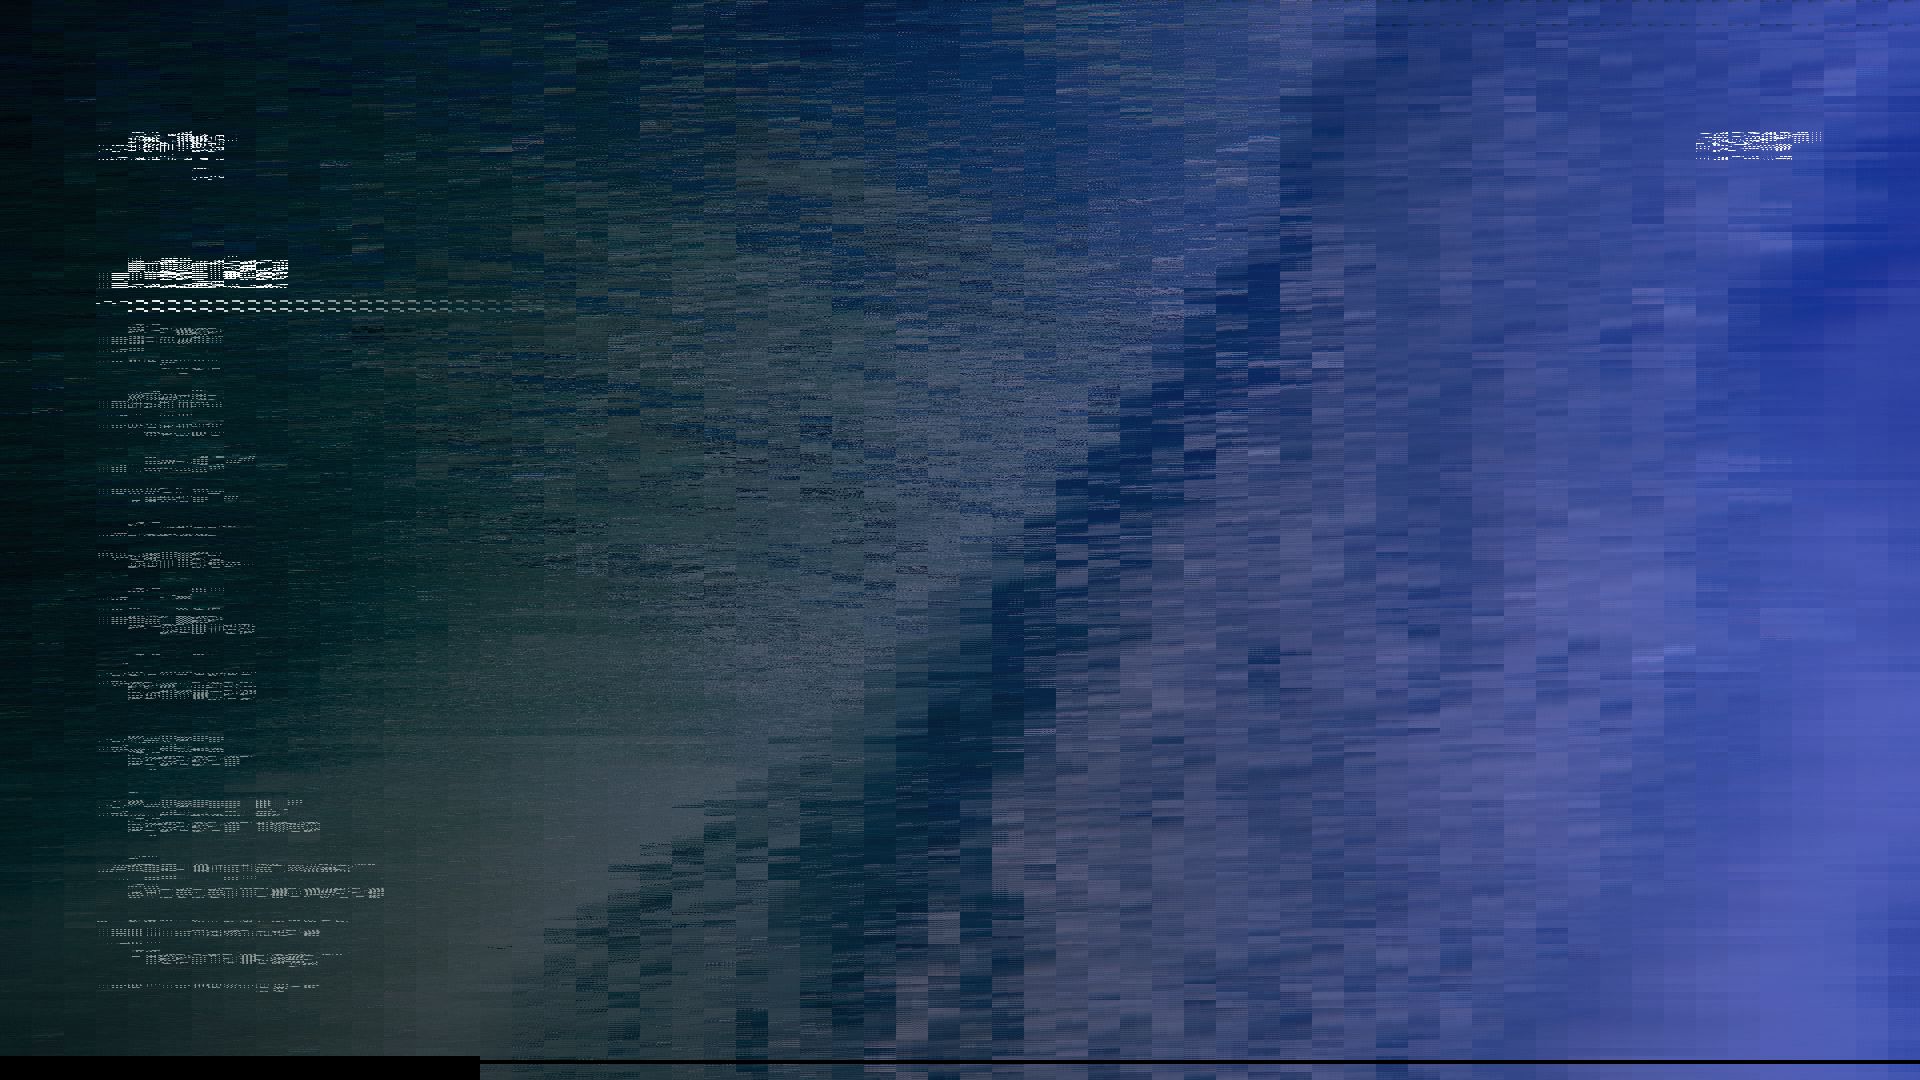
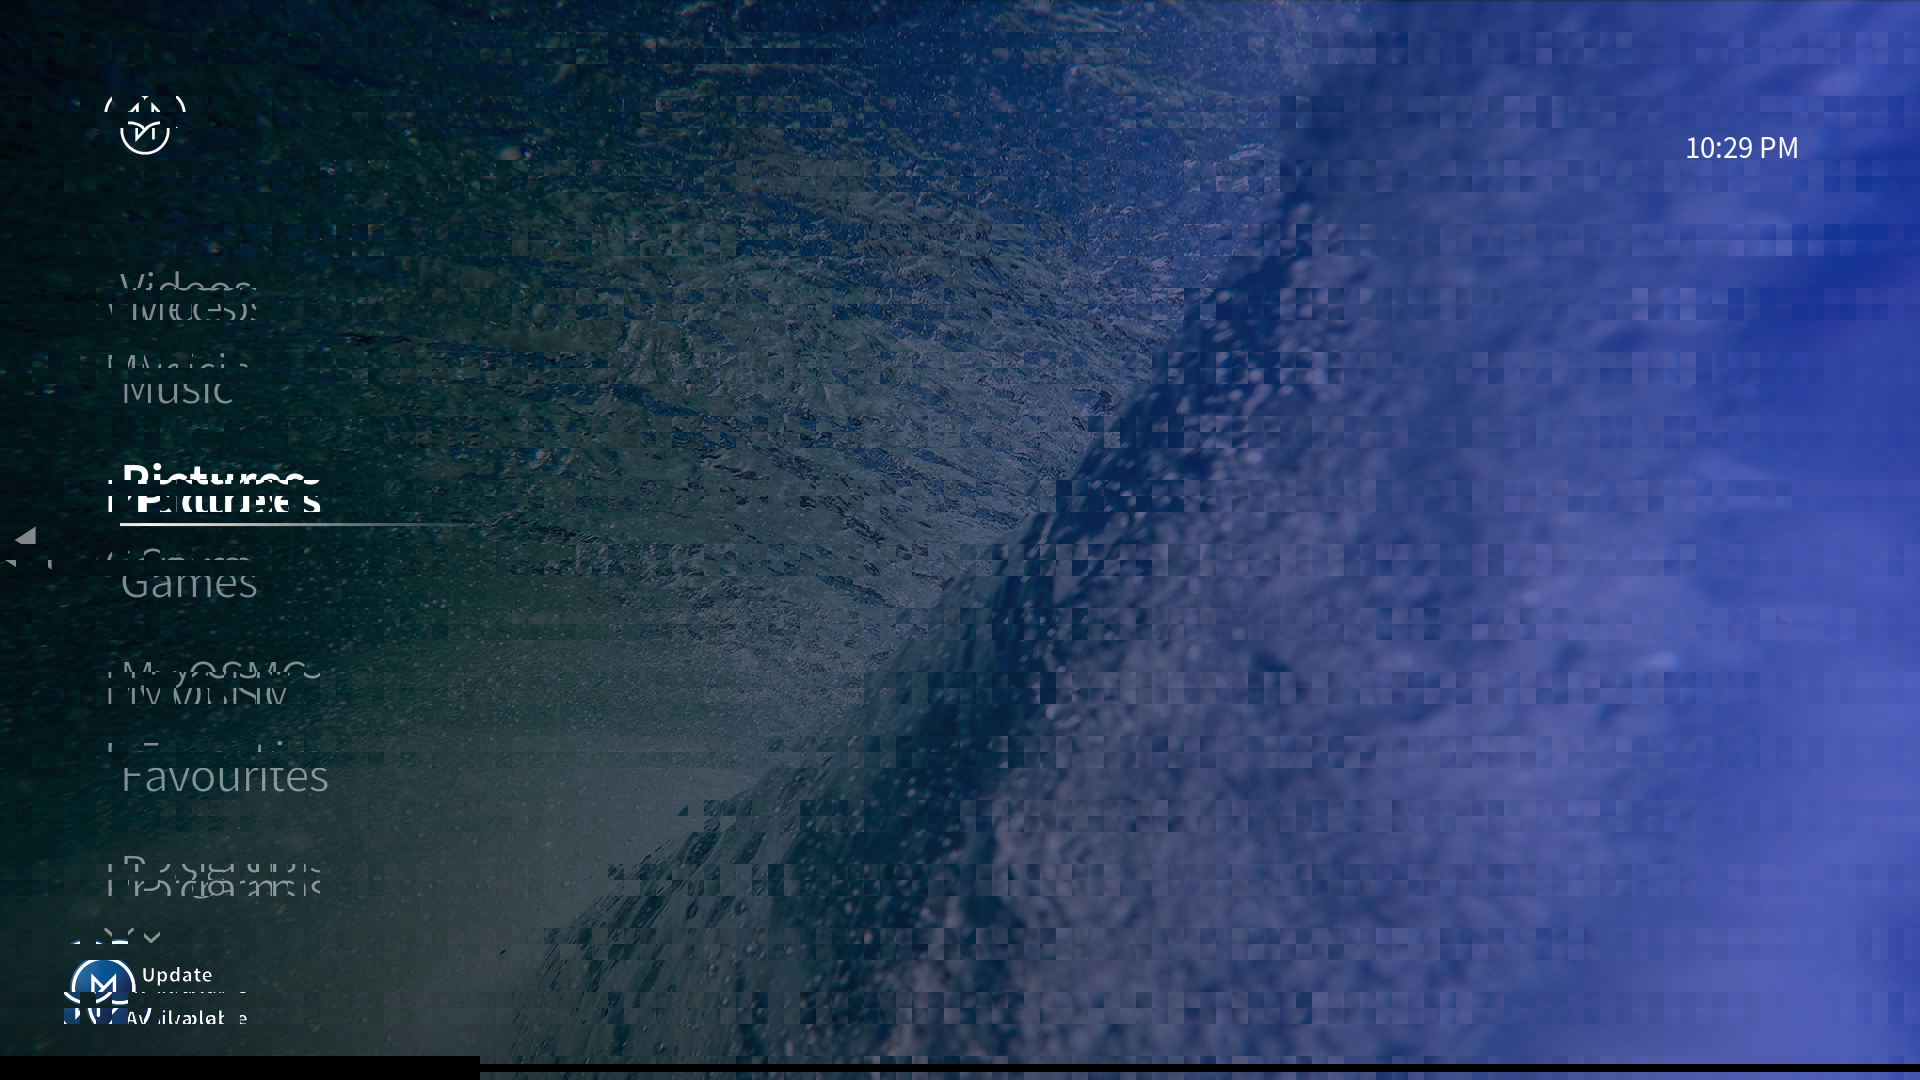
improve deinterlacing

diff --git a/src/main.rs b/src/main.rs
@@ -7,7 +7,7 @@ use std::usize;
 use drm::control::Device as ControlDevice;
 use drm::Device;
 
-use image::{RgbImage, Rgb};
+use image::{Rgb, RgbImage};
 
 use std::os::unix::io::{AsRawFd, RawFd};
 
@@ -60,7 +60,7 @@ fn main() {
 
             let size = fbinfo.size();
             let pitch = fbinfo.pitch();
-            let length = size.1 * pitch + 8*pitch;
+            let length = size.1 * pitch + 8 * pitch;
             let map = {
                 use nix::sys::mman;
                 let addr = core::ptr::null_mut();
@@ -73,7 +73,8 @@ fn main() {
                 }
             };
 
-            let mapping : & mut [u8] = unsafe { std::slice::from_raw_parts_mut(map as *mut _, length as _) };
+            let mapping: &mut [u8] =
+                unsafe { std::slice::from_raw_parts_mut(map as *mut _, length as _) };
 
             let mut img = RgbImage::new(size.0, size.1);
 
@@ -89,18 +90,36 @@ fn main() {
                 }
                 let ty = t / xtiles;
 
-                for y in 0..tilesize {
-                    for x in 0..tilesize{
-                        let col = Rgb([
-                            mapping[(i+2) as usize],
-                            mapping[(i+1) as usize],
-                            mapping[(i+0) as usize]
-                        ]);
-                        if y + ty*tilesize < size.1 {
-                            img.put_pixel(x + tx*tilesize, y + ty*tilesize, col);
-                        }
-                        i = i + 4;
+                for j in 0..tilesize * tilesize {
+                    // each 32x32 tile is subdivided into small tiles of 16x16
+                    // and then tiles of 4x4. The 4x4 tiles are in order, the
+                    // 16x16 tiles go top left, bottom left, bottom right, top
+                    // right. This order seems to be reversed on the second row
+
+                    let col1 = j % 4;
+                    let n = j / 4;
+                    let row1 = n % 4;
+                    let n = n / 4;
+                    let col2 = n % 4;
+                    let n = n / 4;
+                    let row2 = n % 4;
+                    let n = n / 4;
+                    let row3 = if n == 1 || n == 2 { 1 } else {0};
+                    let col3 = n / 2;
+
+                    let color = Rgb([
+                        mapping[(i + 2) as usize],
+                        mapping[(i + 1) as usize],
+                        mapping[(i + 0) as usize],
+                    ]);
+
+                    let xpos = col1 + col2 * 4 + col3 * 16 + tx * tilesize;
+                    let ypos = row1 + row2 * 4 + row3 * 16 + ty * tilesize;
+                    if ypos < size.1 && xpos < size.0 {
+                        img.put_pixel(xpos, ypos, color);
                     }
+
+                    i = i + 4;
                 }
             }
 
